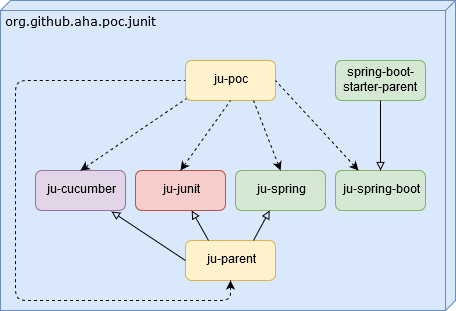
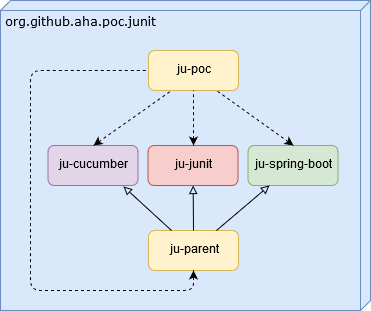
+ [root] readme updated

diff --git a/README.md b/README.md
@@ -20,33 +20,31 @@ The main goal is to demonstrate usage of the framework JUnit 5.
         1. Exception handler
     1. And more
 1. **Framework JUnit 4** - demonstration of basic tests and usage of PowerMock framework. The demonstration of all JUnit 4 features is covered in [release 1.0](https://github.com/arnosthavelka/junit-poc/tree/1.0) and my theses [Analysis of architecture and extension model of the framework JUnit](https://theses.cz/id/p7ghon) (Analýza architektury a nadstavbových možností frameworku JUnit).
-1. **Spring Framework** - some examples of writing Spring tests.
-1. **Spring Boot** - demonstration of writing Spring Boot tests dedicated to each layer (persistence, service and web). This part covers usage of **Spring REST Docs** to generate REST API documentation by the tests. 
+1. **Spring Boot** - demonstration of writing Spring Boot tests (including simple Spring tests example) dedicated to each layer (persistence, service and web). This part covers usage of **Spring REST Docs** to generate REST API documentation by the tests. 
 1. **Cucumber** - exploration of writing tests according Behavior-Driven Development (BDD) methodology. The tests are executed by JUnit framework.
 
 ## Used Technologies
 
-| Area        | Tool             | Version      | Project                                          | Description                    |
-| ----------  | ---------------- | ------------ | ------------------------------------------------ | ------------------------------ |
-| **General** |                  |              |                                                  |                                |
-|             | Maven            | 3.x          | all                                              | Build                          |
-|             | Java             | 10           | all                                              | Java platform                  |
-|             | SLF4J            | 1.7.25       | all                                              | Logging                        |
-|             | Lombok           | 1.18.2       | all                                              | Simplification of Java classes |
-| **Testing** |                  |              |                                                  |                                |
-|             | JUnit            | 4.12         | ju-junit                                         | Unit testing with JUnit4       |
-|             | JUnit            | 5.3.1        | ju-junit, ju-spring ju-spring-boot, ju-cucumber  | Unit testing with JUnit5       |
-|             | Cucumber         | 3.0.2        | ju-cucumber                                      | BDD testing                    |
-|             | Hamcrest         | 1.3          | ju-junit, ju-spring-boot, ju-cucumber            | Assertions                     |
-|             | AssertJ          | 3.11.1       | ju-junit, ju-spring, ju-spring-boot              | Assertions with Fluent API     |
-| **Mocking** |                  |              |                                                  |                                |
-|             | Mockito          | 2.22.0       | ju-junit                                         |                                |
-|             | EasyMock         | 3.6          | ju-junit                                         |                                |
-|             | PowerMock        | 2.0.0-beta.5 | ju-junit                                         | Advanced mocking               |
-| **Others**  |                  |              |                                                  |                                |
-|             | Spring Framework | 5.0.9        | ju-spring                                        |                                |
-|             | Spring Boot      | 2.0.5        | ju-spring-boot                                   |                                |
-|             | Liquibase        | 3.5.5        | ju-spring-boot                                   | Database management            |
+| Area        | Tool             | Version      | Project                                | Description                    |
+| ----------  | ---------------- | ------------ | -------------------------------------- | ------------------------------ |
+| **General** |                  |              |                                        |                                |
+|             | Maven            | 3.x          | all                                    | Build                          |
+|             | Java             | 10           | all                                    | Java platform                  |
+|             | SLF4J            | 1.7.25       | all                                    | Logging                        |
+|             | Lombok           | 1.18.2       | all                                    | Simplification of Java classes |
+| **Testing** |                  |              |                                        |                                |
+|             | JUnit            | 5.3.1        | ju-junit, ju-spring-boot, ju-cucumber  | Unit testing with JUnit5       |
+|             | Cucumber         | 4.0.0        | ju-cucumber                            | BDD testing                    |
+|             | Hamcrest         | 1.3          | ju-junit, ju-spring-boot, ju-cucumber  | Assertions                     |
+|             | AssertJ          | 3.11.1       | ju-junit, ju-spring-boot               | Assertions with Fluent API     |
+| **Mocking** |                  |              |                                        |                                |
+|             | Mockito          | 2.22.0       | ju-junit                               |                                |
+|             | EasyMock         | 3.6          | ju-junit                               |                                |
+|             | PowerMock        | 2.0.0-beta.5 | ju-junit                               | Advanced mocking               |
+| **Others**  |                  |              |                                        |                                |
+|             | Spring Framework | 5.0.9        | ju-spring                              |                                |
+|             | Spring Boot      | 2.0.5        | ju-spring-boot                         |                                |
+|             | Liquibase        | 3.5.5        | ju-spring-boot                         | Database management            |
 
 [travis-url-main]: https://travis-ci.org/arnosthavelka/junit-poc
 [travis-image]: https://travis-ci.org/arnosthavelka/junit-poc.svg?branch=develop
